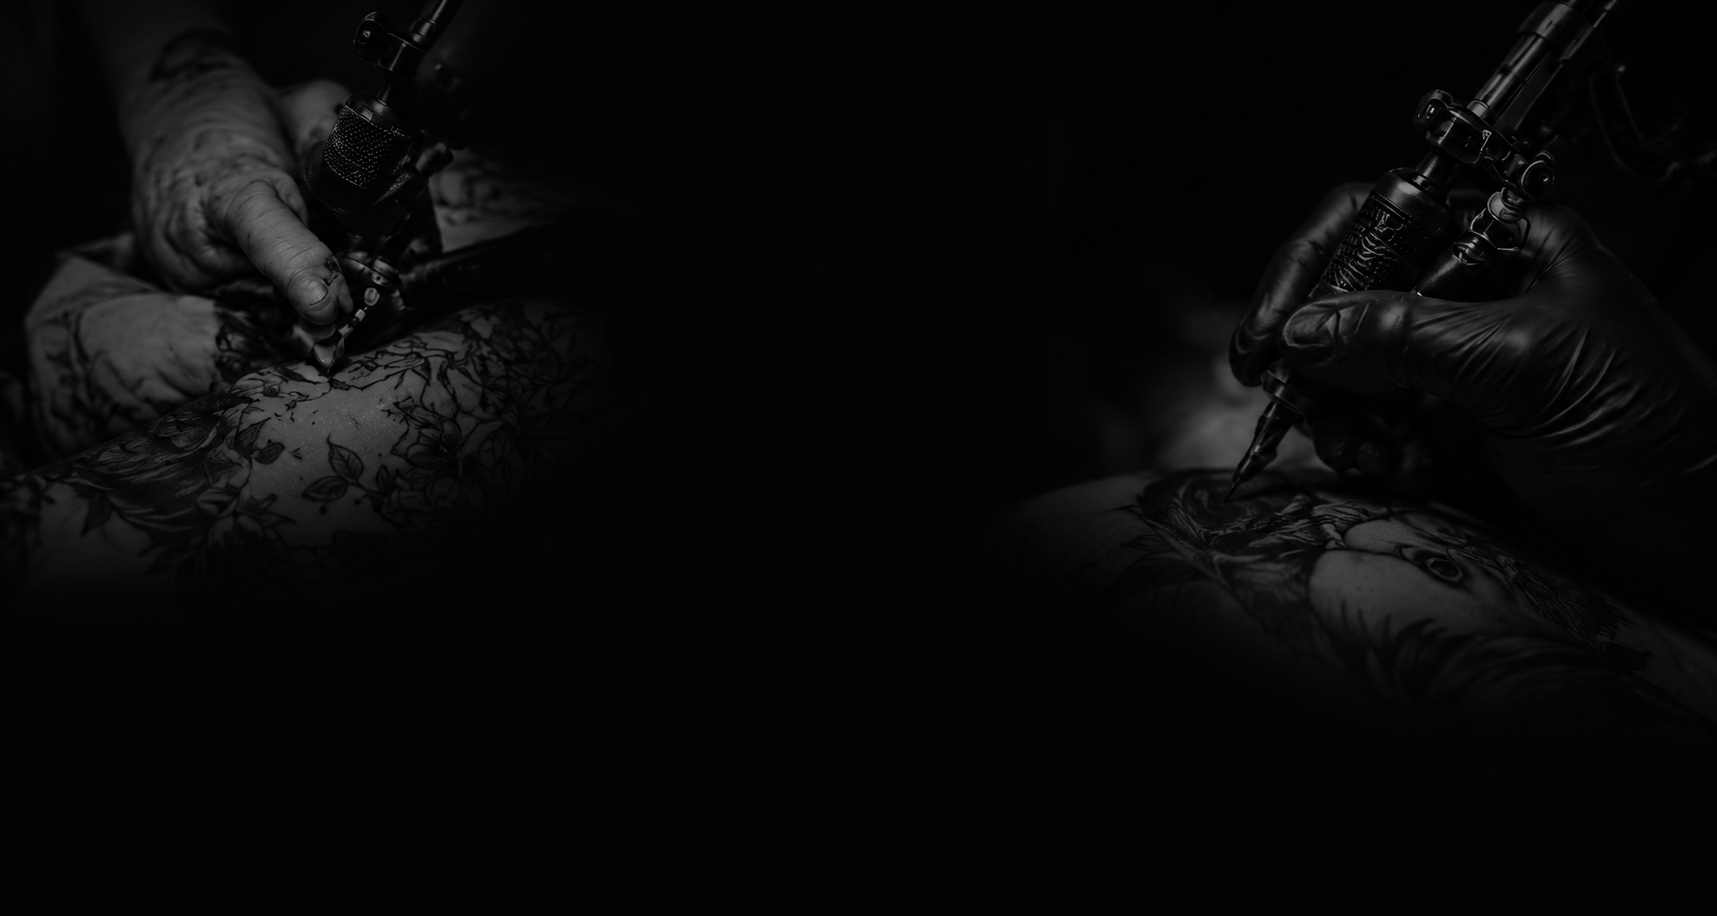
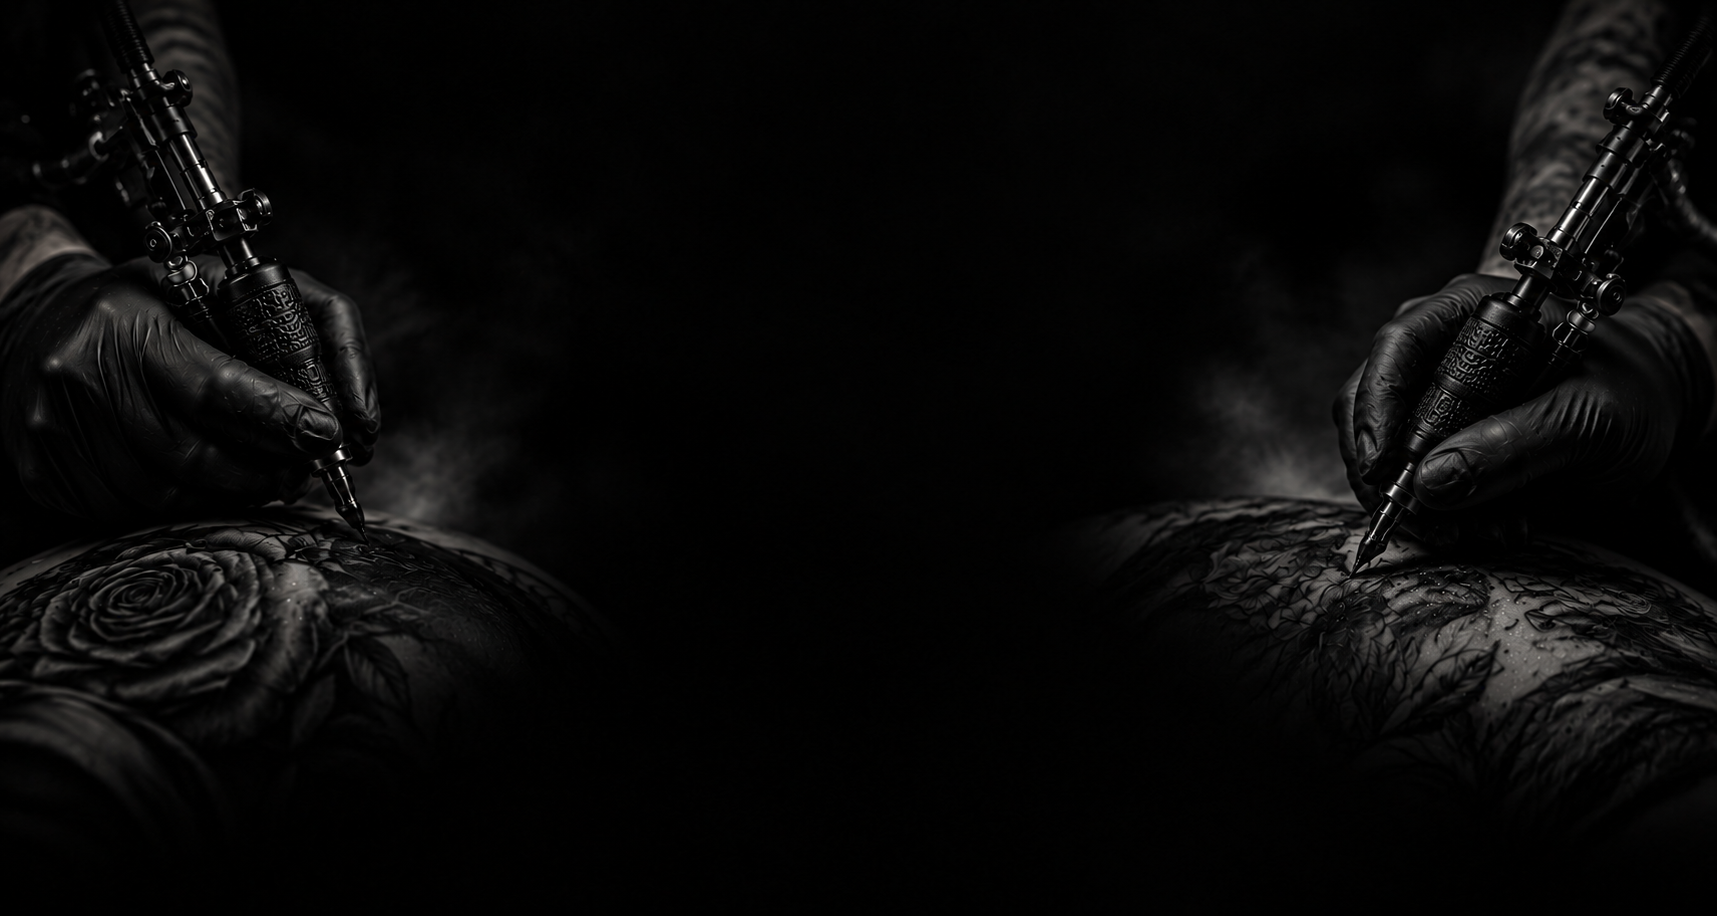
modificações nas animações

diff --git a/style.css b/style.css
@@ -1180,8 +1180,6 @@ footer {
    ================================================================ */
 
 @media (max-width: 900px) {
-  /* o header era uma linha unica sem quebra: logo + 6 links + 3 icones
-     somavam ~499px de largura minima e estouravam a tela */
   .header {
     flex-wrap: wrap;
     justify-content: center;
@@ -1211,7 +1209,6 @@ footer {
     }
   }
 
-  /* vinheta interna mais suave: 10rem de spread comia ~200px numa tela estreita */
   .hero,
   .galeria,
   .sobre,
@@ -1221,7 +1218,6 @@ footer {
     box-shadow: inset 0 0 4rem 2rem rgba(0, 0, 0, 0.9);
   }
 
-  /* respiro lateral proporcional a tela pequena */
   .galeria,
   .duvidas,
   .contato,
@@ -1231,11 +1227,10 @@ footer {
   }
 
   .hero {
-    /* o layout de 3 colunas com margens negativas e texto em position:absolute
-       so funciona lado a lado; aqui vira uma coluna unica no fluxo normal */
     min-height: auto;
     justify-content: center;
     padding: 3rem 1.5rem 0;
+    background-position: left;
 
     & .container-hero {
       display: flex;
@@ -1247,8 +1242,6 @@ footer {
       margin: 0;
     }
 
-    /* display:contents dissolve o wrapper: a imagem e o .texto-hero viram
-       itens diretos do .container-hero, e so assim o order alcanca os dois */
     & .pessoa-img,
     & .tatoo-img {
       display: contents;
@@ -1274,7 +1267,6 @@ footer {
       order: 5;
     }
 
-    /* as faixas pessoa.png (1140x397) e tatoo.png (1016x399) sao horizontais */
     & .pessoa-img > img,
     & .tatoo-img > img {
       width: 100%;
@@ -1283,7 +1275,6 @@ footer {
       margin: 0;
     }
 
-    /* a foto e retrato (1122x1402), entao pede menos largura */
     & .lucas-img {
       position: static;
       width: 100%;
@@ -1292,7 +1283,6 @@ footer {
       margin: 0;
     }
 
-    /* tirar o absolute e o que resolve o texto "solto" dentro da imagem */
     & .texto-hero {
       position: static;
       display: flex;
@@ -1320,9 +1310,6 @@ footer {
       }
     }
 
-    /* estas duas precisam de 3 classes: as regras do desktop
-       (.hero .pessoa-img .texto-hero) tem especificidade maior que
-       .hero .texto-hero e venceriam mesmo dentro da media query */
     & .pessoa-img .texto-hero {
       text-align: center;
       padding-left: 0;
@@ -1339,8 +1326,6 @@ footer {
       align-items: center;
     }
 
-    /* sai do absolute para cair no fluxo, depois do botao;
-       as margens negativas devolvem a faixa preta de ponta a ponta */
     & .local {
       position: static;
       align-self: stretch;
@@ -1350,20 +1335,6 @@ footer {
       box-shadow: none;
     }
 
-    /* ---------- entrada em sequencia (so no mobile) ----------
-       aqui a hero e uma coluna unica, entao da pra mostrar um item
-       de cada vez seguindo o mesmo order de 1 a 5 definido acima:
-       imagem pessoa > lucas > imagem tatoo > texto > texto > local.
-
-       as tres imagens descem de cima igual ao header (slide-in-top),
-       os textos mantem o text-focus-in e so mudam de horario, e o
-       "Petropolis - RJ" fecha a sequencia por ultimo. */
-
-    /* a hero inteira nao pode mais aparecer de uma vez, senao ela
-       mascararia a sequencia dos filhos.
-       precisa do &.fade-in-bottom: a classe utilitaria e declarada
-       mais pra frente no arquivo e, com a mesma especificidade,
-       venceria por vir depois */
     &.fade-in-bottom {
       animation: none;
     }
@@ -1371,7 +1342,7 @@ footer {
     & .pessoa-img > img,
     & .lucas-img,
     & .tatoo-img > img {
-      animation: slide-in-top 0.5s cubic-bezier(0.25, 0.46, 0.45, 0.94) both;
+      animation: fade-in-fwd 0.6s cubic-bezier(0.39, 0.575, 0.565, 1) both;
     }
 
     & .pessoa-img > img {
@@ -1386,7 +1357,6 @@ footer {
       animation-delay: 1.3s;
     }
 
-    /* os textos ja tem .text-focus-in no html: aqui so entram na fila */
     & .pessoa-img > .texto-hero {
       animation-delay: 1.7s;
     }
@@ -1424,9 +1394,10 @@ footer {
       align-items: center;
       width: 100%;
       padding: 2rem 1.5rem;
+      perspective: 800px;
 
       & img {
-        animation: slide-in-top 0.5s cubic-bezier(0.25, 0.46, 0.45, 0.94) 1s
+        animation: fade-in-fwd 0.6s cubic-bezier(0.39, 0.575, 0.565, 1) 1.3s
           both;
         background-size: cover;
         width: 100%;
@@ -1455,6 +1426,7 @@ footer {
   }
 
   .contato {
+    background-position: right;
     & .caixa {
       display: flex;
       flex-direction: column;
@@ -1497,11 +1469,6 @@ footer {
   /* ---------- menu hamburguer (ate 500px) ---------- */
   @media (max-width: 500px) {
     .header {
-      /* o mesmo grid aberto e fechado. trocar de flex para grid no meio
-         do fechamento era o que deixava resto na tela: o header voltava
-         para 6rem num quadro so, enquanto os filhos ainda animavam, e
-         sem overflow:hidden eles apareciam por fora da caixa.
-         linha 1: logo | icones | X. linha 2: a lista de links. */
       display: grid;
       grid-template-columns: auto 1fr auto;
       grid-template-rows: auto auto;
@@ -1510,8 +1477,6 @@ footer {
       row-gap: 0;
       padding: 0 1.5rem;
 
-      /* a altura vem do logo (6rem) na linha 1; a linha 2 cresce e
-         encolhe sozinha, e o header acompanha animando junto */
       & .nav-left {
         grid-area: 1 / 1 / 2 / 2;
       }
@@ -1522,8 +1487,6 @@ footer {
         grid-area: 2 / 1 / 3 / 4;
       }
 
-      /* o X fecha a linha 1; os dois glifos ficam empilhados na mesma
-         celula do proprio grid dele, para poder cruzar um com o outro */
       & .btn-menu {
         grid-area: 1 / 3 / 2 / 4;
         display: grid;
@@ -1548,34 +1511,19 @@ footer {
         }
       }
 
-      /* grid de uma linha indo de 0fr a 1fr: anima ate a altura real,
-         sem precisar chutar um max-height */
       & .main-nav,
       & .utility-strip {
         display: grid;
-        /* fica nos DOIS estados de proposito. so no .menu-aberto, o
-           justify-self voltava para stretch assim que a classe saia:
-           a faixa esticava para as 3 colunas no primeiro quadro do
-           fechamento, os links re-quebravam e o bloco parecia pular
-           para a esquerda antes de recolher. place-self nao interpola,
-           entao a unica saida e ele nunca mudar. */
+
         place-self: center;
         grid-template-rows: 0fr;
         justify-items: center;
         opacity: 0;
-        /* tira do Tab enquanto fechado, senao os links seguem focaveis */
+
         visibility: hidden;
         padding: 0;
       }
 
-      /* FECHAR de baixo para cima: a lista (linha 2) recolhe primeiro e
-         os icones (linha 1) saem logo atras. mais rapido que abrir e com
-         ease-in, para sair de vez. A opacidade termina antes da altura,
-         senao o texto fica visivel sendo espremido nos ultimos quadros.
-         O visibility espera o fim dos dois — por isso a transicao vai
-         escrita inteira em cada um, e nao com transition-delay solto:
-         a lista de delays reescreve TODOS os atrasos, inclusive o do
-         visibility, e o elemento sumia de uma vez no meio do fade. */
       & .main-nav {
         transition:
           grid-template-rows 0.24s cubic-bezier(0.4, 0, 1, 1) 0s,
@@ -1590,7 +1538,6 @@ footer {
           visibility 0s linear 0.3s;
       }
 
-      /* quem recorta e o filho da linha do grid */
       & .main-nav > .nav-links,
       & .utility-strip > .social {
         overflow: hidden;
@@ -1604,10 +1551,6 @@ footer {
         align-items: center;
         gap: 1.2rem 1.6rem;
         padding: 0 1.6rem;
-
-        /* a logo ja leva ao inicio: o Home viraria um botao repetido.
-           o gancho e o href, nao o .active — quem liga o .active e o
-           scrollspy do JS, entao ele muda de link conforme a rolagem */
 
         & a[href='#inicio'] {
           display: none;
@@ -1624,13 +1567,7 @@ footer {
         }
       }
 
-      /* ---------- estado aberto ----------
-         o grid ja esta montado la em cima: aqui so as linhas ganham
-         altura, e por isso abrir e fechar usam o mesmo caminho */
       &.menu-aberto {
-        /* ABRIR de cima para baixo, o inverso do fechar: mais longo,
-           ease-out, e a opacidade entra com um respiro depois que a
-           altura ja comecou a crescer */
         & .main-nav,
         & .utility-strip {
           grid-template-rows: 1fr;
@@ -1652,8 +1589,6 @@ footer {
             visibility 0s;
         }
 
-        /* o padding fica no filho recortado para crescer junto,
-           em vez de dar um salto quando a classe entra */
         & .utility-strip > .social {
           padding: 1.2rem 0 1.6rem;
         }
@@ -1673,7 +1608,6 @@ footer {
         }
       }
 
-      /* quem pediu menos animacao no sistema recebe o menu sem animacao */
       @media (prefers-reduced-motion: reduce) {
         & .main-nav,
         & .utility-strip,
@@ -1688,7 +1622,6 @@ footer {
 
   /* ---------- telas muito estreitas (ate 520px) ---------- */
   @media (max-width: 520px) {
-    /* palavras longas nao podem estourar a caixa */
     h1,
     h2,
     h3,
@@ -1698,7 +1631,6 @@ footer {
       overflow-wrap: break-word;
     }
 
-    /* o clamp tinha piso de 4.2rem: "TRABALHOS NA PELE" nao cabia em 260px */
     h2 {
       font-size: clamp(2.4rem, 9vw, 4.2rem);
     }
@@ -1727,7 +1659,6 @@ footer {
       }
     }
 
-    /* acordeao: 5rem + 3.2rem de padding sobravam ~16px de texto */
     .duvidas {
       & .acordeao {
         padding: 2rem 0;
@@ -1744,7 +1675,6 @@ footer {
       }
     }
 
-    /* botao flutuante mais discreto e mais perto do canto */
     .logo-whatssap {
       right: 1.5rem;
       bottom: 2rem;
@@ -1753,7 +1683,6 @@ footer {
     }
   }
 
-  /* tooltip nao cabe em tela estreita (e mobile nao tem hover) */
   .logo-whatssap {
     &::before {
       display: none;
@@ -1919,6 +1848,19 @@ footer {
     transform: scaleY(1);
     -webkit-transform-origin: 100% 0%;
     transform-origin: 100% 0%;
+    opacity: 1;
+  }
+}
+
+@keyframes fade-in-fwd {
+  0% {
+    -webkit-transform: translateZ(-80px);
+    transform: translateZ(-80px);
+    opacity: 0;
+  }
+  100% {
+    -webkit-transform: translateZ(0);
+    transform: translateZ(0);
     opacity: 1;
   }
 }
